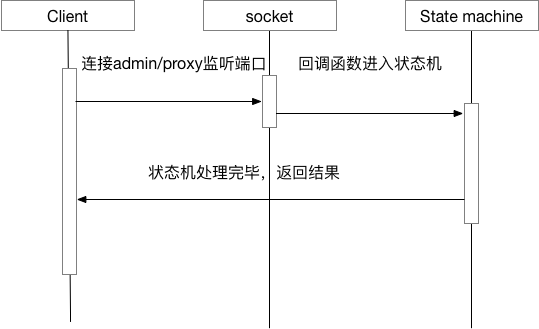
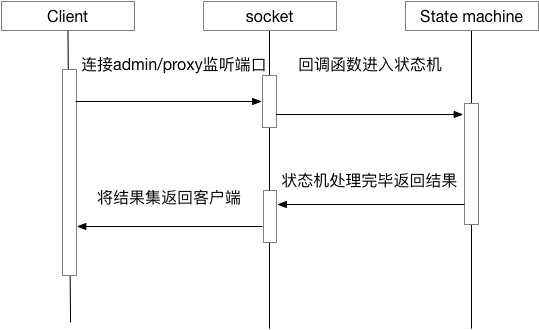
add article

diff --git a/cetus-state-machine.md b/cetus-state-machine.md
@@ -16,17 +16,84 @@ Cetus中间件作为服务程序，会暴露给客户端相应的端口，即管
 
 在Cetus中，注册的回调函数为`network_mysqld_con_accept`，该函数中主要完成套接字的accept功能，获取客户端连接的相关属性信息。在该函数中，会调用`network_mysqld_con_handle`函数，真正进入状态机，对SQL进行处理。
 
-状态机内部，是通过状态的迁移而进行推进的，即每完成相应的操作，状态便进行迁移。虽然管理端口状态机和代理端口状态机有所不同，但是其入口均是`network_mysqld_con_handle`，下面将详细进行叙述状态机。
+状态机内部，是通过状态的迁移而进行推进的，即每完成相应的操作，状态便进行迁移。虽然管理端口状态机和代理端口状态机有所不同，但是其入口均是`network_mysqld_con_handle`。
+
+`network_mysqld_con_handle`的声明如下：
+
+```
+/**
+ * handle the different states of the MySQL protocol
+ *
+ * @param event_fd     fd on which the event was fired
+ * @param events       the event that was fired
+ * @param user_data    the connection handle
+ */
+void
+network_mysqld_con_handle(int event_fd, short events, void *user_data);
+```
 
 ![3.2.1](./images/3.2.1.png)
 
+介绍状态机之前，首先介绍下客户端与服务器端通过MySQL协议交互的大致流程，因为只有了解MySQL协议交互流程，才能理解为什么状态机的各个状态如此迁移。
+
+![3.2.2](./images/3.2.2.png)
+
+
+如上图所示，MySQL协议大致可以分为认证阶段和交互阶段。认证阶段服务器会首先发送握手包，客户端响应认证包，最后服务器会根据认证包中的信息，决定是否认证成功，发送给客户端OK包或是Err包。而认证通过之后，客户端便可以发送SQL请求，进行数据的存储。而且在客户端与Cetus交互过程中，Cetus便充当了服务器的角色；而当Cetus有后端MySQL交互过程中，Cetus却扮演了客户端的角色。
+
 #### 3 管理端口状态机
 
-
+管理端口状态机的状态转换如下图所示（忽略SSL协议状态），其中ST\_INIT状态（红色背景）是初始状态，ST\_ERROR状态和CLOSE\_CLIENT状态（紫色背景）为终止状态。所有SQL都是由初始状态开始，到终止状态结束。下面对**主要**的状态转换过程进行简单描述。
 
 ![3.3.1](./images/3.3.1.png)
 
+##### 3.1 ST\_INIT  ->  ST\_SEND\_HANDSHAKE
+
+ST\_INIT状态执行admin插件中的函数`server_con_init`后，会迁移到ST\_SEND\_HANDSHAKE状态。`server_con_init`函数主要是组装handshake包。handshake包中会设置协议、版本号、权值标志、挑战数等等一系列信息。并将设置好的handshake包放入发送队列中，等待发送给客户端。
+
+##### 3.2 ST\_SEND\_HANDSHAKE  ->  ST\_READ\_AUTH
+
+进入ST\_SEND\_HANDSHAKE后，会将发送队列中的handshake包，**异步**的发送给客户端，随后便迁移至ST\_READ\_AUTH状态。
+
+##### 3.3 ST\_READ\_AUTH  ->  ST\_SEND\_AUTH\_RESULT
+
+进入ST\_READ\_AUTH状态后，会**异步**的读取客户端的认证包并放入接收队列中。一旦读取到认证包，会调用admin插件的`server_read_auth`函数。该函数会从接受队列中读取认证包进行解析。
+
+认证包中主要包括客户端的权值、用户名、密码、是否启用压缩等信息。账号合法性检测和IP白名单、黑名单的检测均在该函数完成。只有允许的用户名和密码、允许的客户端IP才会向客户端恢复认证成功的消息包，认证失败则会发送响应的错误信息。这些成功或是失败的消息，同样会首先放入到发送队列中，等待后续发送给客户端。
+
+经过认证包的解析，以及权限认证，会迁移到ST\_SEND\_AUTH\_RESULT状态。
+
+##### 3.4 ST\_SEND\_AUTH\_RESULT  ->  ST\_READ\_QUERY
+
+进入ST\_SEND\_AUTH\_RESULT状态后，会**异步**的将发送队列中的认证响应包发送给客户端。当然，在该状态转化过程中，也会判断客户端是否启用压缩，而设置压缩缓冲区等。完成上述转换过程，即完成了MySQL协议的认证过程，后续便可以进行正常的SQL访问了，状态会转换成ST\_READ\_QUERY，等待客户端发送SQL请求。
+
+##### 3.5 ST\_READ\_QUERY  ->  ST\_SEND\_QUERY\_RESULT
+
+进入ST\_READ\_QUERY状态后，会等待客户端发送SQL请求。一旦客户端发送了请求，便会进入了SQL请求的处理流程，该流程主要在函数`handle_read_query`中完成的。
+
+首先肯定是**异步**读取客户端发送的**所有**的SQL请求，将接收到的请求发送接收队里中。随后，将接受缓冲区中的SQL请求经由词法和语法解析器识别，按照各个语句，调用响应的处理函数进行SQL的处理，并将响应结果放入发送队列中，该过程是在`admin_process_query`函数中完成的。处理完成之后，状态会迁移到ST\_SEND\_QUERY\_RESULT状态。
+
+##### 3.6 ST\_SEND\_QUERY\_RESULT  ->  ST\_READ\_QUERY
+
+ST\_SEND\_QUERY\_RESULT状态，主要是将发送队列中的SQL响应结果返回给客户端，该过程主要在`send_result_to_client`函数中完成。将结果集发送给客户端后，状态会迁移回ST\_READ\_QUERY状态，等待响应客户端发送来的下一条SQL请求。
+
+
 #### 4 代理端口状态机
 
+代理端口状态机与管理端口状态机相比较，流程类似但是更为复杂。管理端口状态机与客户端交互，并不涉及后端MySQL，而代理端口状态机与客户端交互时，还涉及到与后端MySQL的交互。因此，代理端口与Cetus交互，其实涉及三个节点：客户端、Cetus中间件、后端MySQL，交互流程示意如下。
 
+![3.4.1](./images/3.4.1.png)
+
+交互过程会涉及后端MySQL，因此相比管理端口状态机，会有一些新增状态，主要状态变迁如下图所示。其中ST\_INIT状态（红色背景）是初始状态，ST\_ERROR状态和CLOSE\_CLIENT状态（紫色背景）为终止状态。所有SQL都是由初始状态开始，到终止状态结束。下面对**主要**的状态转换过程进行简单描述。
+
+![3.4.2](./images/3.4.2.png)
+
+##### 4.1 ##### 3.1 ST\_INIT  ->  ST\_SEND\_HANDSHAKE
+
+
+
+
+#### 5 结束语
+
+本文仅针对Cetus的SQL处理状态机进行了简单描述，实际处理过程远比描述的复杂，甚至有些细节都已经略去，目的是让读者能够专注于对状态机的理解。有些重要细节，会在其他文章中进行详细介绍。
 
